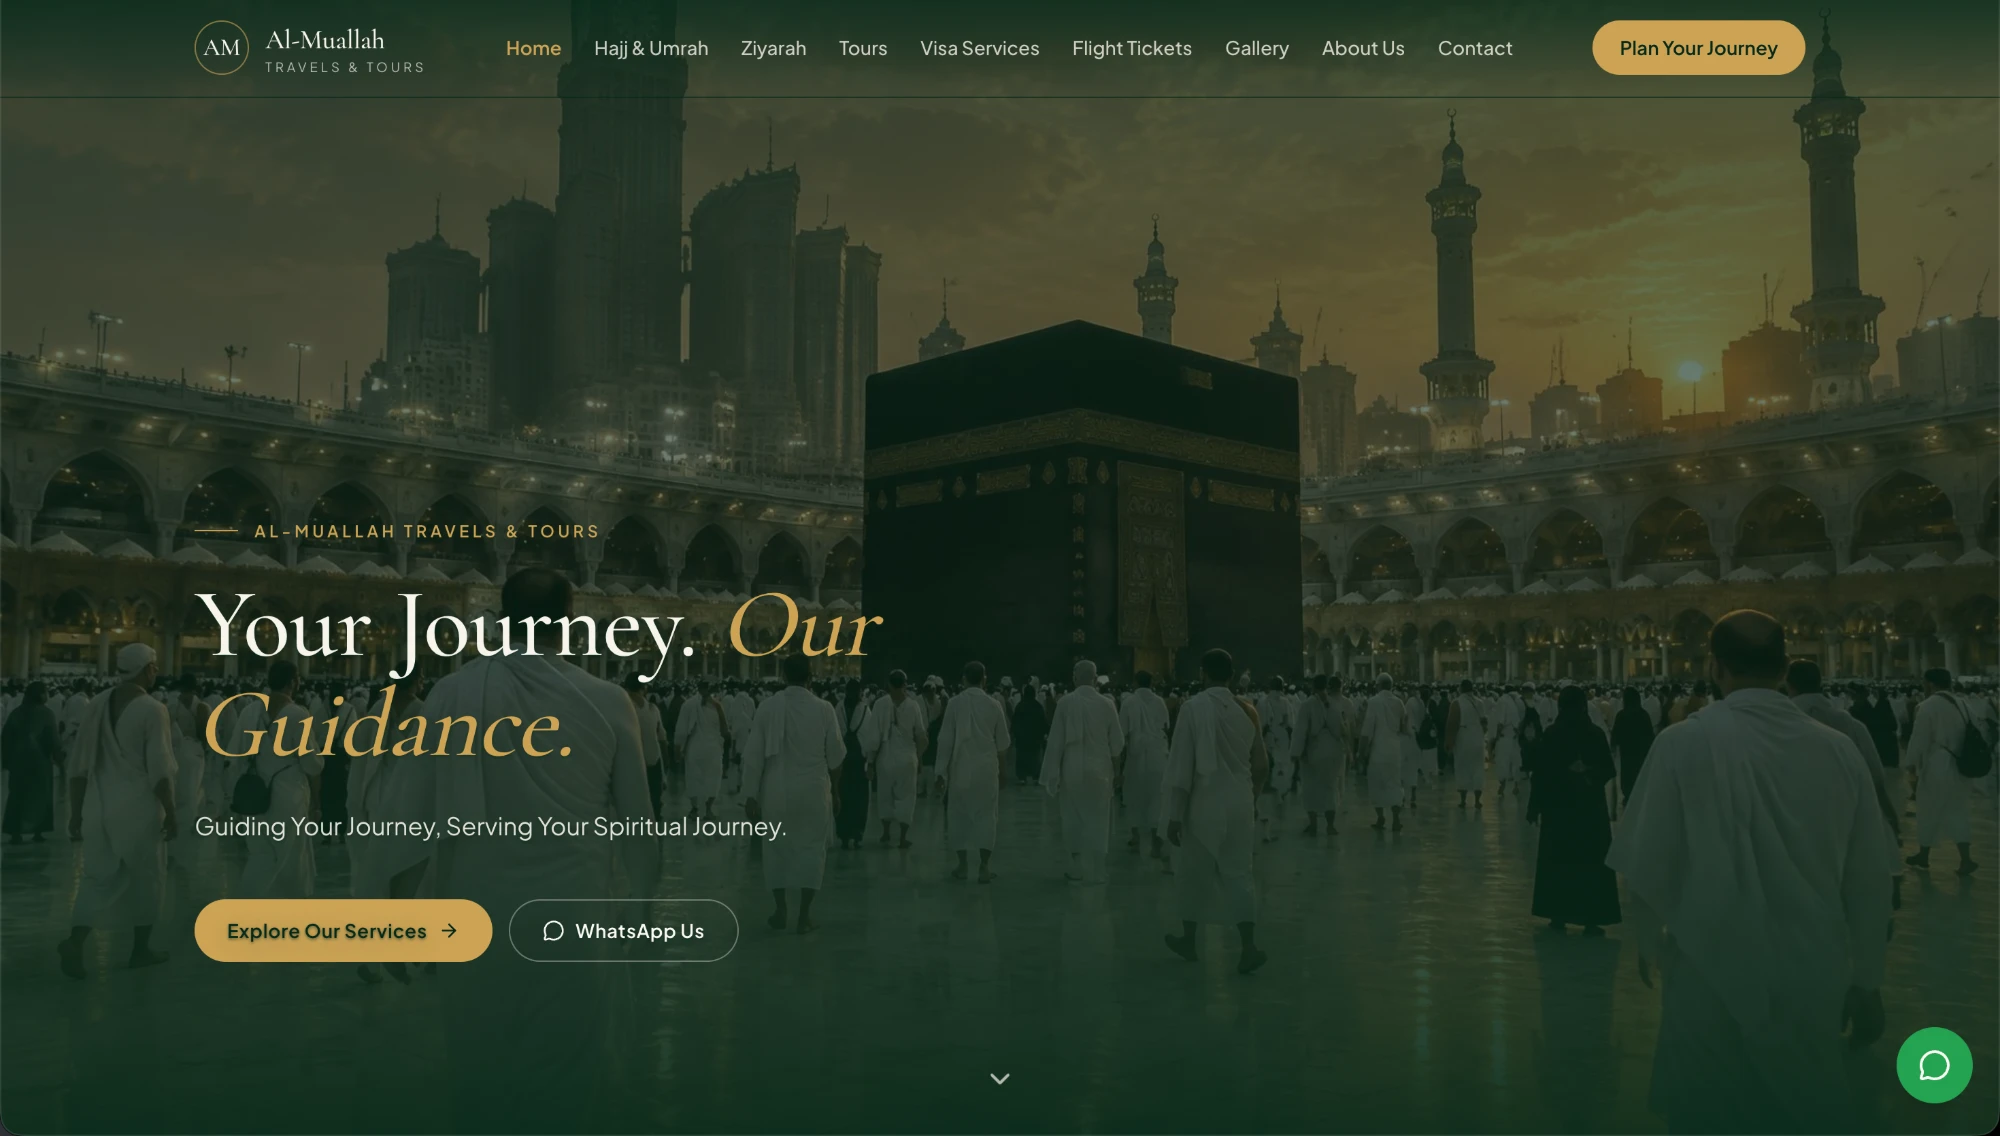
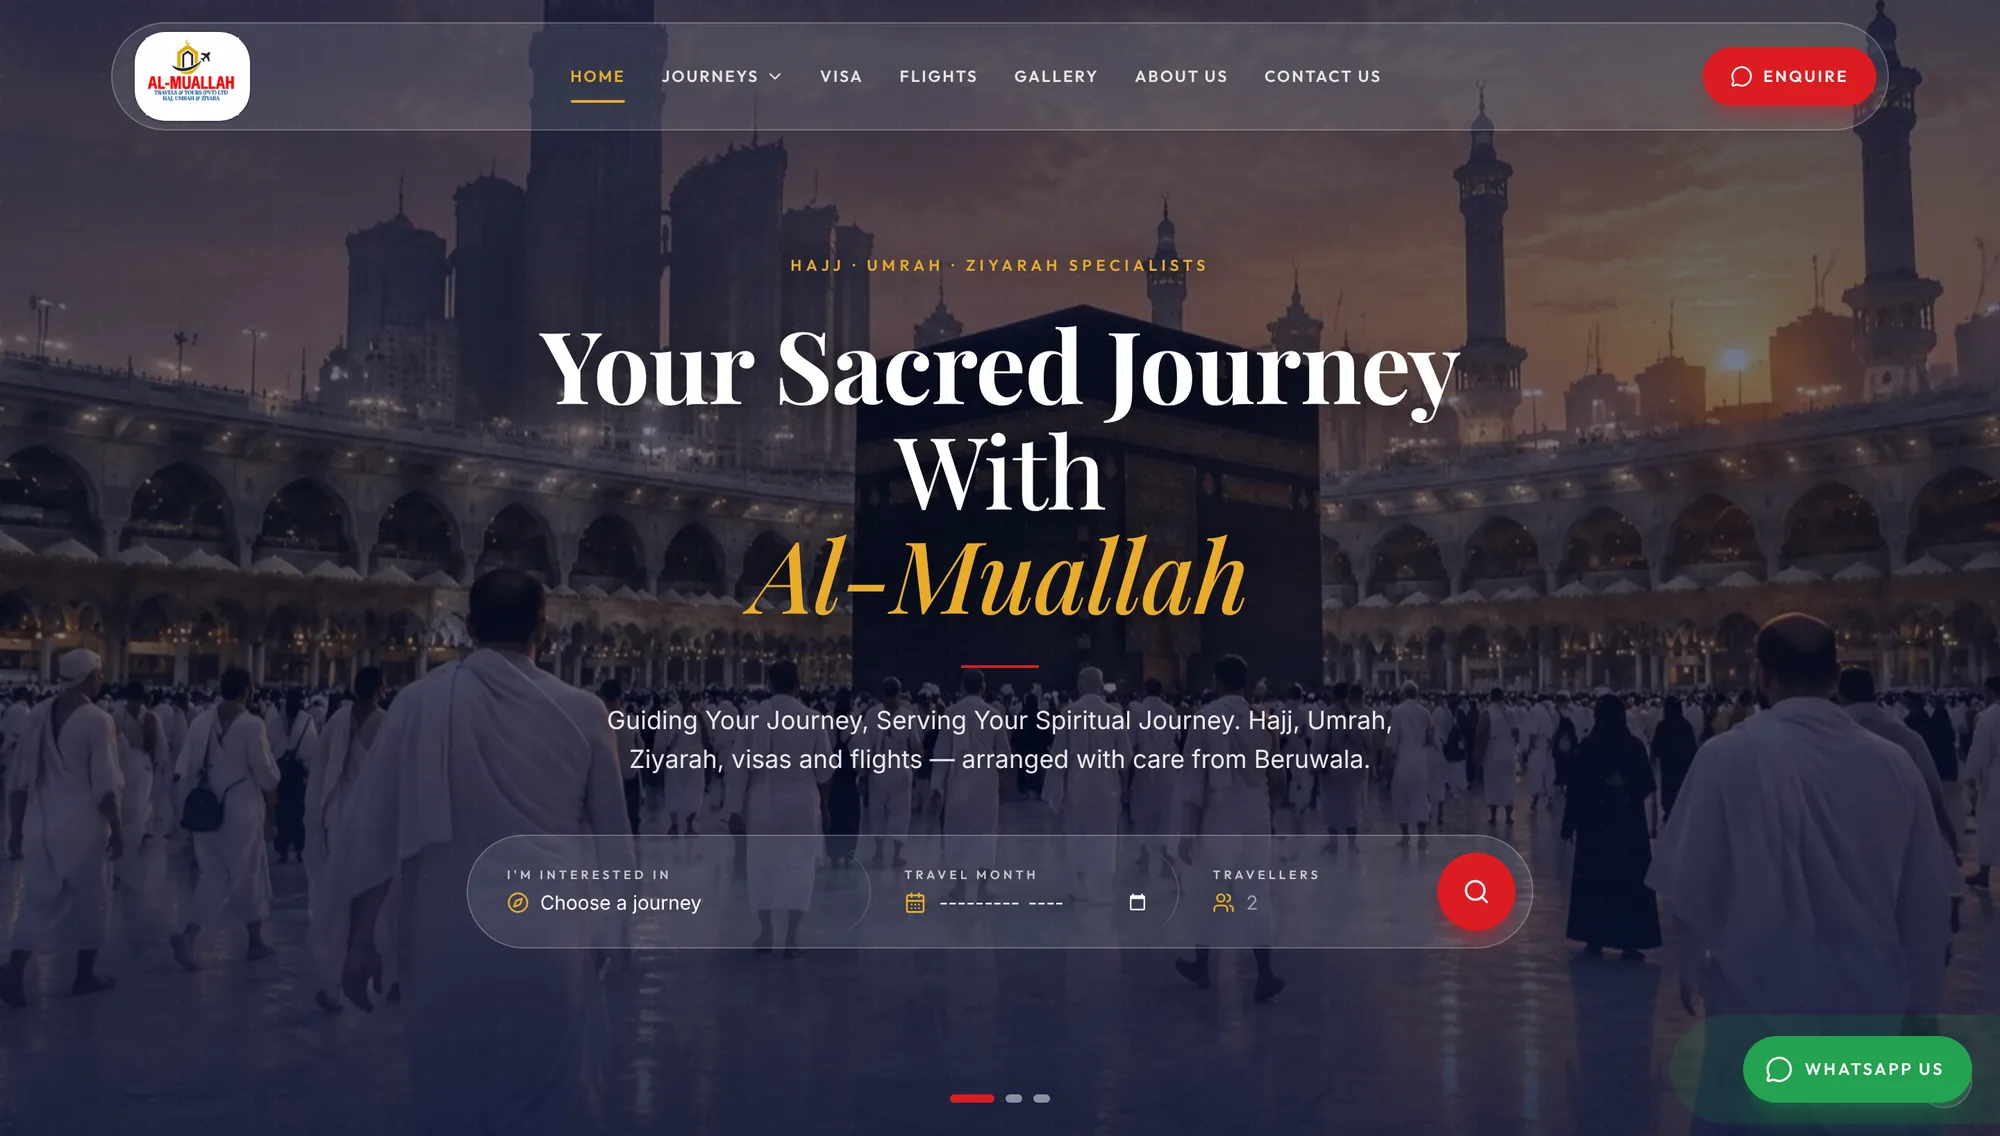
feat: mark Al-Muallah Travels & Tours as live client work
Point the project at almuallahtravels.com, drop the in-development
status, add Beruwala location and details from the live site, and
replace the preview screenshot with the live homepage. Feature it on
the website development service page, and keep that evidence grid
balanced at four cards.

Claude-Session: https://claude.ai/code/session_01EN8gojm38KEEFDgtd1MyLK

diff --git a/lib/client-projects.ts b/lib/client-projects.ts
@@ -72,18 +72,18 @@ export const CLIENT_PROJECTS: ClientProject[] = [
   },
   {
     id: 'al-muallah-travels',
-    name: 'Al-Muallah Travels',
-    url: 'https://al-muallah-travels.vercel.app/',
-    displayUrl: 'al-muallah-travels.vercel.app',
+    name: 'Al-Muallah Travels & Tours',
+    url: 'https://almuallahtravels.com/',
+    displayUrl: 'almuallahtravels.com',
     sector: 'Travel',
-    type: 'Travel web platform',
-    status: 'In development',
+    location: 'Beruwala, Sri Lanka',
+    type: 'Travel and pilgrimage website',
     description:
-      'A travel-sector web platform covering Hajj and Umrah, Ziyarah, tours, visa services, and flight tickets. Currently in development.',
-    tags: ['Web platform', 'Travel services'],
+      'A website for an IATA-accredited, SLTDA-licensed travel agency, presenting its Hajj, Umrah, and Ziyarah packages, religious tours to Baghdad and India, Sri Lanka tours, visa assistance, and airline ticketing. Travellers can browse journeys, see photos from past pilgrim groups, and send an enquiry or reach the team on WhatsApp.',
+    tags: ['Website', 'Travel packages', 'Enquiries'],
     image: {
       src: '/work/al-muallah-travels.webp',
-      alt: 'Al-Muallah Travels homepage: “Your Journey. Our Guidance.” over a photo of the Kaaba at dusk',
+      alt: 'Al-Muallah Travels & Tours homepage: “Your Sacred Journey With Al-Muallah” over a photo of the Kaaba at dusk, with a journey enquiry bar',
       device: 'desktop',
     },
   },

diff --git a/components/ServiceLandingPage.tsx b/components/ServiceLandingPage.tsx
@@ -204,7 +204,7 @@ export default function ServiceLandingPage({ page }: { page: ServicePageData }) 
               </div>
               {evidenceProjects.length > 0 ? (
                 <div
-                  className={`mt-10 grid grid-cols-1 gap-5 md:grid-cols-2 ${evidenceProjects.length >= 3 ? 'lg:grid-cols-3' : ''}`}>
+                  className={`mt-10 grid grid-cols-1 gap-5 md:grid-cols-2 ${evidenceProjects.length % 3 === 0 ? 'lg:grid-cols-3' : ''}`}>
                   {evidenceProjects.map((project) => (
                     <ProjectCard key={project.id} project={project} />
                   ))}

diff --git a/lib/service-pages.ts b/lib/service-pages.ts
@@ -76,6 +76,7 @@ export const SERVICE_PAGES: ServicePageData[] = [
     evidence: {
       body: 'Business websites we have built for clients. This site is another example: orbitratech.net is designed and built by Orbitra, with server-rendered pages, structured data for search engines, and a mobile-first layout.',
       clientProjectIds: [
+        'al-muallah-travels',
         'nethmi-gem-jewellery',
         'hey-gems-international',
         'rabeeyunil-awwal-mango-garden',
